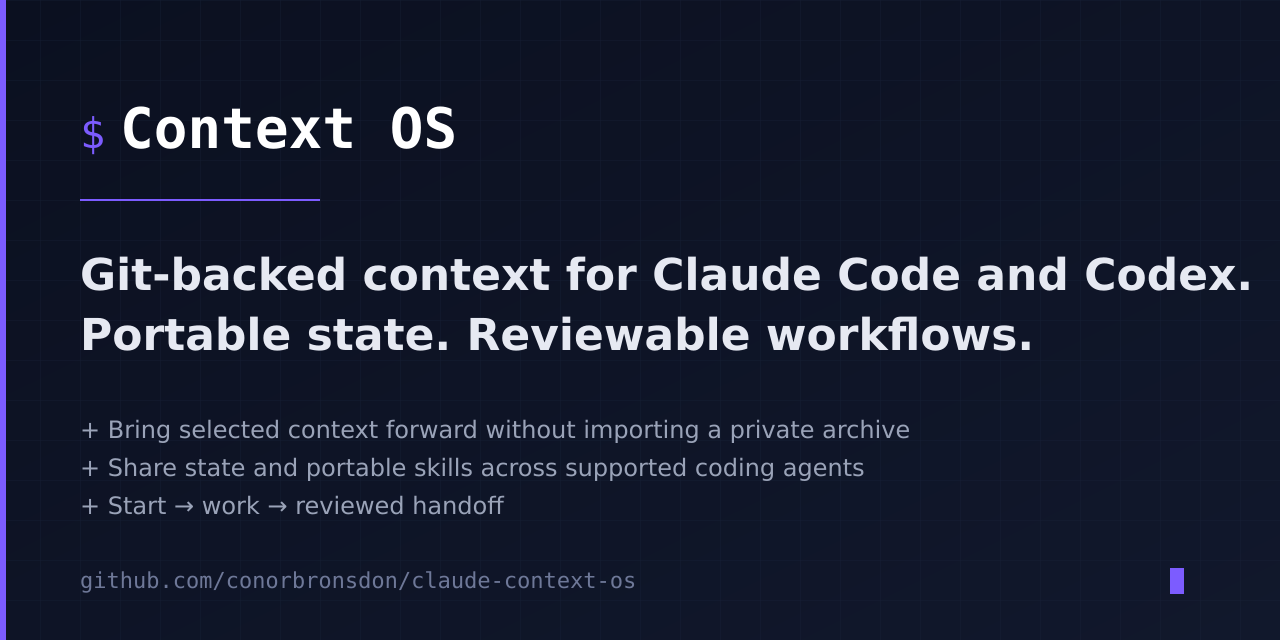
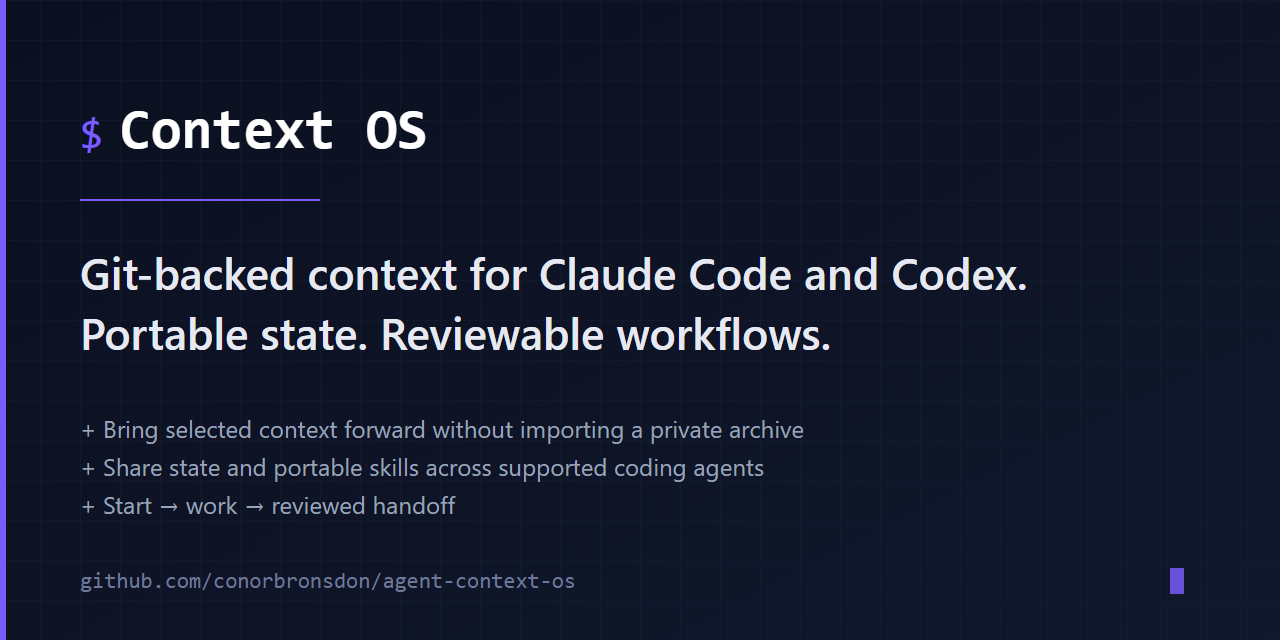
Rename surfaces to agent-context-os; add Hermes Agent support (#36)
* Rename surfaces to agent-context-os; add first-class Hermes Agent support

- Update every self-reference (README badges/clone/UTM, docs, setup remote
  check, test fixtures, og-image SVG) to the new slug after the GitHub
  rename from claude-context-os. Old URLs redirect.
- AGENTS.md: new Hermes Agent section — Hermes loads AGENTS.md as project
  rules; lifecycle skills install via hermes skills install; hooks note.
- New docs/memory-across-agents.md mapping repository state and /dream
  against Hermes native memory and its background Curator.
- scripts/setup.sh: detect and offer to launch claude, codex, hermes,
  cursor, or openclaw (--agent gains hermes|cursor|openclaw).
- Tests updated for the rename (docs positioning, portability help text).

* docs: re-render og-image.png from updated SVG (agent-context-os URL)

* tests: make portability and hook tests pass on Windows MSYS

- Resolve mktemp output via cygpath to a native path before handing it to
  native git (git -C cannot cd to MSYS /tmp paths), while keeping the
  POSIX form for PATH entries so fixture stubs still shadow real tools.
- Compare setup.sh launch-path output against the bash pwd form of the
  fixture (what REPO_ROOT actually prints) instead of the raw fixture path.
- Keep python3 reachable under the memory-notice fixture's restricted PATH
  by prepending the resolved python3 directory.

diff --git a/tests/test_docs_positioning.py b/tests/test_docs_positioning.py
@@ -44,8 +44,9 @@ class DocumentationPositioningTests(unittest.TestCase):
     def test_repository_name_is_preserved_without_neutral_parity_overclaim(self) -> None:
         readme = self.text("README.md")
         self.assertIn("# Context OS", readme)
-        self.assertIn("conorbronsdon/claude-context-os.git", readme)
-        self.assertNotIn("agent-context-os", readme)
+        # Renamed claude-context-os -> agent-context-os (Aug 2026); old URLs redirect.
+        self.assertIn("conorbronsdon/agent-context-os.git", readme)
+        self.assertNotIn("claude-context-os", readme)
 
     def test_getting_started_keeps_mutations_opt_in(self) -> None:
         guide = self.text("docs/getting-started.md")

diff --git a/README.md b/README.md
@@ -4,11 +4,11 @@
 
 A Git-backed context and workflow layer for Claude Code and Codex.
 
-[![GitHub stars](https://img.shields.io/github/stars/conorbronsdon/claude-context-os?style=social)](https://github.com/conorbronsdon/claude-context-os/stargazers)
+[![GitHub stars](https://img.shields.io/github/stars/conorbronsdon/agent-context-os?style=social)](https://github.com/conorbronsdon/agent-context-os/stargazers)
 [![License: MIT](https://img.shields.io/badge/License-MIT-blue.svg?style=flat-square)](LICENSE)
 [![Claude Code](https://img.shields.io/badge/Claude%20Code-ready-d97757?style=flat-square)](https://docs.anthropic.com/en/docs/claude-code)
 [![Codex](https://img.shields.io/badge/Codex-ready-111827?style=flat-square)](docs/codex-onboarding.md)
-[![Validate](https://github.com/conorbronsdon/claude-context-os/actions/workflows/validate.yml/badge.svg)](https://github.com/conorbronsdon/claude-context-os/actions/workflows/validate.yml)
+[![Validate](https://github.com/conorbronsdon/agent-context-os/actions/workflows/validate.yml/badge.svg)](https://github.com/conorbronsdon/agent-context-os/actions/workflows/validate.yml)
 [![X](https://img.shields.io/badge/X-@ConorBronsdon-black?style=flat-square&logo=x)](https://x.com/ConorBronsdon)
 
 </div>
@@ -31,7 +31,7 @@ Context OS does not scrape every account, sync product UIs automatically, or ins
 Personal and business context often belongs in a private repository. Create an empty private repository first if that applies to you, and never commit credentials or a raw account export.
 
 ```bash
-git clone https://github.com/conorbronsdon/claude-context-os.git my-context
+git clone https://github.com/conorbronsdon/agent-context-os.git my-context
 cd my-context
 
 # Recommended for a private copy:
@@ -95,7 +95,9 @@ The guide covers ChatGPT, Claude, Gemini Apps, Gemini CLI, and a generic path fo
 |---|---|
 | Claude Code | Full experience: shared lifecycle, slash-command adapters, hooks, optional live reads, and Claude-only auto-memory curation |
 | Codex | First-class shared lifecycle and repository skills; no claim of Claude hook or auto-memory parity |
+| Hermes Agent | Reads `AGENTS.md` automatically; installs the portable lifecycle skills as slash commands (`hermes skills install`); native memory mapping in [memory across agents](docs/memory-across-agents.md); no Claude hook or auto-memory parity |
 | Gemini CLI / Antigravity CLI | Migration tooling plus portable-skill discovery for continuing enterprise/API-key Gemini CLI; no complete workspace adapter, and no Antigravity discovery or permission parity is claimed |
+| Cursor / OpenClaw | Read `AGENTS.md` from the repository root; portable skills usable where their Agent Skills support allows |
 | claude.ai | Manual consumer of selected knowledge files; no repository writes, hooks, or slash-command parity |
 | Other agents | Can use the Markdown state and portable skills only when their file and Agent Skills support is compatible |
 
@@ -172,6 +174,7 @@ CI runs the same aggregate validator. It checks structure, adapter mappings, lin
 | Install and choose a host | [Getting started](docs/getting-started.md) |
 | Import useful context from another system | [Migration guide](docs/migration-guide.md) |
 | Use the repository in Codex | [Codex onboarding](docs/codex-onboarding.md) |
+| Use the repository in Hermes Agent | [Memory across agents](docs/memory-across-agents.md) and the Hermes section of [AGENTS.md](AGENTS.md) |
 | Keep claude.ai projects aligned | [Claude projects sync](docs/claude-projects-sync.md) |
 | See every command and portable skill | [Commands and skills](docs/commands-and-skills.md) |
 | Choose an optional add-on | [Integration chooser](docs/integrations-guide.md) and [catalog](references/integrations.md) |
@@ -185,7 +188,7 @@ This is a template. Structural contributions, clearer conventions, and reusable 
 
 ## Used by
 
-- [Conor Bronsdon](https://github.com/conorbronsdon), host of the [Chain of Thought podcast](https://chainofthought.show/?utm_source=github&utm_medium=referral&utm_campaign=repo-readme&utm_content=claude-context-os)
+- [Conor Bronsdon](https://github.com/conorbronsdon), host of the [Chain of Thought podcast](https://chainofthought.show/?utm_source=github&utm_medium=referral&utm_campaign=repo-readme&utm_content=agent-context-os)
 
 Using the template? Open a PR to add yourself.
 

diff --git a/docs/memory-across-agents.md b/docs/memory-across-agents.md
@@ -1,0 +1,33 @@
+# Memory across agents
+
+Context OS is deliberately not a memory product. It is a Git-backed context layer, and its relationship to each host's native memory feature is worth stating plainly so users do not double-book the same fact in two systems.
+
+## The short version
+
+| Concern | Where it lives |
+|---|---|
+| Durable facts you want every agent to see | This repository (`identity/`, `state/`, `projects/`) — versioned, reviewable, portable |
+| Host-local working memory (one agent's private scratch) | That host's native memory feature |
+| Curated long-term memory with provenance and review gates | Repository state plus a reviewed curator workflow |
+
+## Claude Code
+
+Claude Code auto-memory writes machine-local files under `~/.claude/projects/<encoded-cwd>/memory/` automatically. Context OS treats it as a separate layer: `/dream` curates it via proposal artifacts, `/dream-apply` applies accepted changes, and neither governs auto-memory's ordinary automatic writes. See [`auto-memory.md`](auto-memory.md) and [`dream-architecture.md`](dream-architecture.md).
+
+## Hermes Agent
+
+Hermes has two native memory mechanisms that overlap conceptually with parts of this repository:
+
+| Hermes native | Closest Context OS concept | How they differ |
+|---|---|---|
+| `MEMORY.md` + `USER.md` persistent memory (typed entries, injected every session) | `state/current.md`, `identity/who-i-am.md` | Hermes memory is per-profile and machine-local; repository state is versioned, diffable, and travels with the clone. Keep facts that must survive a machine or agent switch in the repository. |
+| Background Curator (usage tracking, staleness detection, archival of skills and memories) | `/dream` rot-detection pass | Both detect drift and propose maintenance. The Curator runs autonomously on Hermes' own stores; `/dream` writes reviewable proposal artifacts before anything mutates. |
+
+Practical guidance for Hermes users:
+
+1. Let Hermes remember session-level preferences natively — do not mirror them into `state/`.
+2. Put identity, project briefs, decisions, and priorities in this repository. They are the durable layer.
+3. If you run `/dream` against a Hermes memory directory, treat the output exactly as designed: proposals only, reviewed item by item before any write-back.
+4. Do not configure the same fact as both a Hermes memory entry and a repository file without picking one canonical home. See the SSOT rule in `AGENTS.md`.
+
+The design bet is the same one described in [`positioning.md`](positioning.md): durable context belongs in files you control, and an assistant's private memory is never the source of truth.

diff --git a/AGENTS.md b/AGENTS.md
@@ -28,8 +28,17 @@ These skills are deliberately explicit-invocation workflows. Do not start, check
 ## Portability boundary
 
 - `.agents/skills/` contains the portable workflow cores.
-- `.claude/` contains Claude Code commands, hooks, settings, and memory adapters. Do not assume those features run in Codex.
+- `.claude/` contains Claude Code commands, hooks, settings, and memory adapters. Do not assume those features run in Codex or Hermes.
 - Do not commit personal Codex configuration or credentials. Keep machine-level configuration outside this repository.
+
+## Hermes Agent
+
+Hermes Agent reads this repository's instructions automatically:
+
+- Project rules: Hermes loads `AGENTS.md` from the working directory into every session in this repository. This file is the portable entry point; `CLAUDE.md` remains Claude Code-specific.
+- Session loop: the four lifecycle skills (`context-setup`, `context-start`, `context-update`, `context-end`) under `.agents/skills/` are agentskills.io-compatible SKILL.md files. Install them with `hermes skills install <path>` (or import via `hermes import-agent claude-code`, which picks up skill directories), then invoke them as `/context-start`, `/context-update`, and `/context-end`.
+- Memory: Hermes has its own persistent memory (`MEMORY.md`) plus a background Curator. See `docs/memory-across-agents.md` for how this repository's state layer relates to native Hermes memory, and when to run `/dream` equivalents.
+- Hooks: the checked-in `.claude/hooks/` guards do not run under Hermes. Hermes' equivalent is its plugin/hooks system (`hermes config get plugins`, docs: Features → Hooks); the safety contract in `docs/safety-contract.md` still applies as instructions even without enforcement.
 
 ## Validation
 

diff --git a/docs/launch-copy.md b/docs/launch-copy.md
@@ -4,7 +4,7 @@ Drafts only. Review links, release status, and platform length before publishing
 
 ## Main announcement
 
-I built `claude-context-os` because I was tired of rebuilding the same context across chats, projects, and coding agents.
+I built `agent-context-os` because I was tired of rebuilding the same context across chats, projects, and coding agents.
 
 The project now has a clearer public name: Context OS.
 
@@ -21,11 +21,11 @@ The new integration catalog is opt-in and explicit about what each add-on can re
 
 If your AI context is scattered across five places and slowly going stale, this is the problem I want Context OS to solve.
 
-https://github.com/conorbronsdon/claude-context-os
+https://github.com/conorbronsdon/agent-context-os
 
 ## Short announcement
 
-`claude-context-os` is now Context OS: a Git-backed context and workflow layer for Claude Code and Codex.
+`agent-context-os` is now Context OS: a Git-backed context and workflow layer for Claude Code and Codex.
 
 New in this release:
 
@@ -36,7 +36,7 @@ New in this release:
 
 Your durable context stays in files you can inspect, version, and move.
 
-https://github.com/conorbronsdon/claude-context-os
+https://github.com/conorbronsdon/agent-context-os
 
 ## Changelog post
 
@@ -48,4 +48,4 @@ The optional integration catalog now covers portable skill collections and creat
 
 I also rewrote the onboarding and migration docs around the actual user journey: bring forward selected context, choose a host, add only the tools you need, and keep the result current.
 
-https://github.com/conorbronsdon/claude-context-os
+https://github.com/conorbronsdon/agent-context-os

diff --git a/CHANGELOG.md b/CHANGELOG.md
@@ -2,6 +2,11 @@
 
 ## [Unreleased]
 
+### Changed
+- **Repository renamed `claude-context-os` → `agent-context-os`.** Self-references updated across the README (badges, clone commands, UTM), docs, setup remote check, test fixtures, and the og-image SVG; old GitHub URLs redirect automatically. Re-render and re-upload `docs/assets/og-image.png` via Settings → Social preview.
+- Added first-class Hermes Agent support: an AGENTS.md Hermes section (Hermes loads `AGENTS.md` as project rules), a memory-mapping guide (`docs/memory-across-agents.md`) covering native Hermes memory and its Curator versus repository state and `/dream`, a hooks-equivalents note, and a new [memory across agents](docs/memory-across-agents.md) README row in host support.
+- `scripts/setup.sh` now detects and offers to launch Claude Code, Codex, Hermes, Cursor CLI, or OpenClaw (`--agent auto|claude|codex|hermes|cursor|openclaw|none`), with per-host next steps.
+
 ### Added
 - Reviewed optional entries for the official GitHub, Linear, and Readwise MCP servers, including read-only starting profiles and explicit sensitive-read, remote-write, publish, overwrite, deletion, OAuth, and destructive confirmation gates.
 - Source-neutral onboarding and migration docs for ChatGPT, Claude, Gemini, and other assistants, with a reviewed migration-packet format and optional import handling in `$context-setup`.

diff --git a/docs/positioning.md b/docs/positioning.md
@@ -2,9 +2,7 @@
 
 ## Product name
 
-Use **Context OS** as the product name. Keep `claude-context-os` as the repository slug for link continuity unless a later rename has a clear migration plan.
-
-`agent-context-os` is more provider-neutral than the current slug, but it makes the agent the subject. The product is the context layer: the files, provenance, routing, review gates, and maintenance loop that remain useful when the active agent changes.
+The product name and the repository slug are both **Context OS** (`agent-context-os`). The repository was renamed from `claude-context-os` in August 2026; old GitHub URLs redirect automatically.
 
 ## One-line description
 

diff --git a/docs/getting-started.md b/docs/getting-started.md
@@ -13,7 +13,7 @@ Decide where the repository will live. If it will contain personal, client, empl
 Clone the public template:
 
 ```bash
-git clone https://github.com/conorbronsdon/claude-context-os.git my-context
+git clone https://github.com/conorbronsdon/agent-context-os.git my-context
 cd my-context
 ```
 
